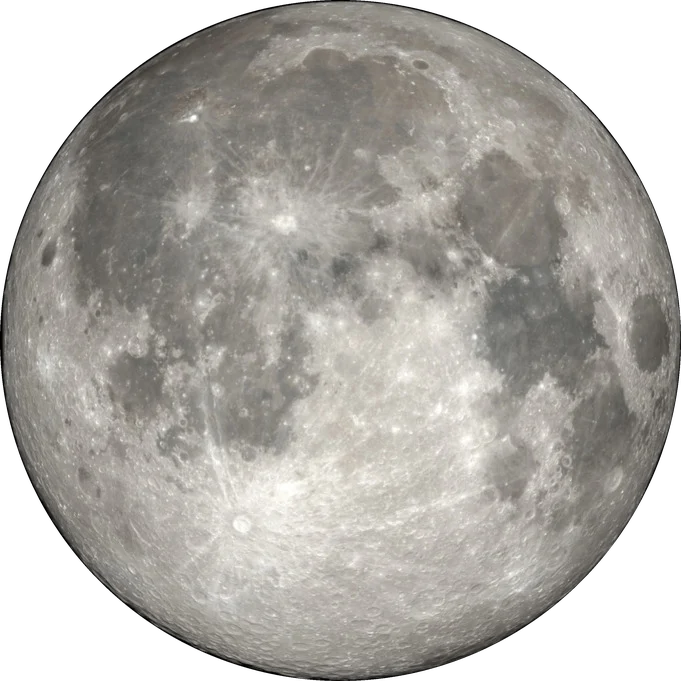
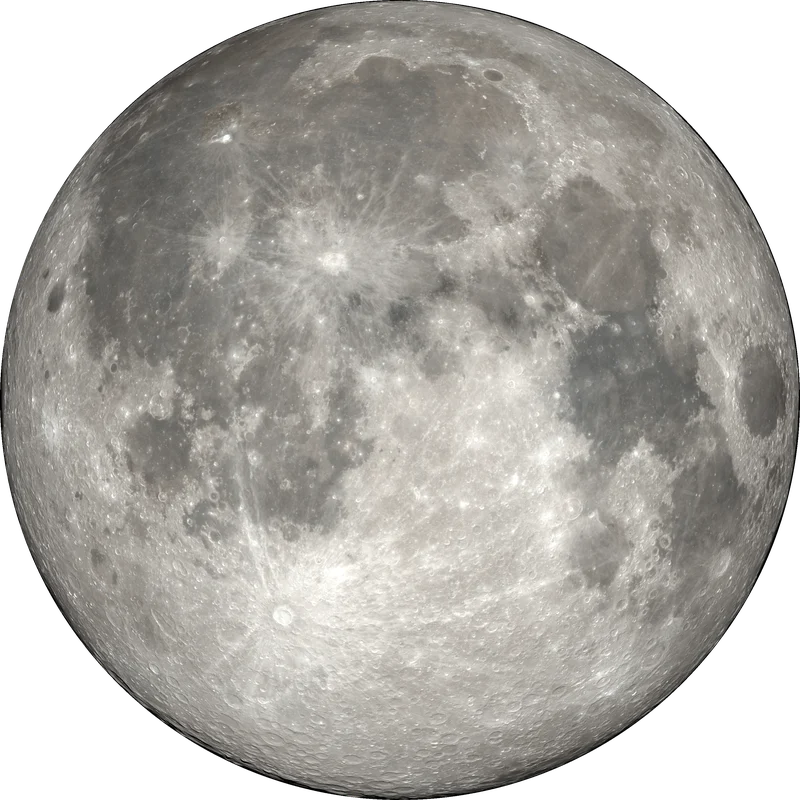
NASA tarzı iki katlı menü ve sinematik ana sayfa girişi
- Üst kat: logo, canlı ay göstergesi, dil; alt kat: ortalı bölüm menüsü
  (çok sayfalı bölümler açılır menü olur), telefonda bölümlü açılır menü
- Ana sayfa: ekranı kaplayan dev ay yayı (o anki evre gölgesiyle) ve büyük başlık
- NASA SVS 5760px karesinden 160/800/2000 px ay görselleri

diff --git a/apps/web/components/HeaderNav.tsx b/apps/web/components/HeaderNav.tsx
@@ -10,29 +10,69 @@ export interface NavItem {
   description: string;
 }
 
+/** Menüdeki bir bölüm. Tek sayfası olan bölüm doğrudan bağlantı, birden çok sayfası olan açılır menü olur. */
+export interface NavSection {
+  label: string;
+  items: NavItem[];
+}
+
 function isActive(pathname: string, path: string) {
   return pathname === path || pathname.startsWith(`${path}/`);
 }
 
-/** Masaüstü menü bağlantıları; bulunulan sayfa altı çizili gösterilir. */
-export function DesktopNav({ items }: { items: NavItem[] }) {
+const linkBase = "flex h-12 items-center gap-1 border-b-2 px-3 text-[0.9375rem] font-semibold transition";
+const linkState = (active: boolean) =>
+  active ? "border-indigo-400 text-white" : "border-transparent text-zinc-300 hover:text-white";
+
+/** Masaüstü bölüm menüsü (ikinci kat). Bulunulan bölümün altı çizilir. */
+export function DesktopNav({ sections }: { sections: NavSection[] }) {
   const pathname = usePathname();
+
   return (
-    <nav aria-label="Ana menü" className="hidden md:block">
-      <ul className="flex items-center gap-1 text-sm">
-        {items.map((item) => {
-          const active = isActive(pathname, item.path);
+    <nav aria-label="Bölümler" className="hidden md:block">
+      <ul className="flex items-center justify-center gap-2">
+        {sections.map((section) => {
+          const active = section.items.some((i) => isActive(pathname, i.path));
+          if (section.items.length === 1) {
+            const item = section.items[0];
+            return (
+              <li key={section.label}>
+                <Link
+                  href={item.path}
+                  aria-current={active ? "page" : undefined}
+                  className={`${linkBase} ${linkState(active)}`}
+                >
+                  {item.label}
+                </Link>
+              </li>
+            );
+          }
           return (
-            <li key={item.path}>
-              <Link
-                href={item.path}
-                aria-current={active ? "page" : undefined}
-                className={`relative rounded-full px-3.5 py-2 transition ${
-                  active ? "bg-white/10 text-white" : "text-zinc-300 hover:bg-white/5 hover:text-white"
-                }`}
-              >
-                {item.label}
-              </Link>
+            <li key={section.label} className="group relative">
+              <button type="button" aria-haspopup="true" className={`${linkBase} ${linkState(active)}`}>
+                {section.label}
+                <svg
+                  viewBox="0 0 12 12"
+                  width="11"
+                  height="11"
+                  aria-hidden="true"
+                  className="transition group-focus-within:rotate-180 group-hover:rotate-180"
+                >
+                  <path d="M2 4l4 4 4-4" fill="none" stroke="currentColor" strokeWidth="1.6" />
+                </svg>
+              </button>
+              <div className="invisible absolute left-1/2 top-full z-30 w-80 -translate-x-1/2 pt-1 opacity-0 transition group-focus-within:visible group-focus-within:opacity-100 group-hover:visible group-hover:opacity-100">
+                <ul className="rounded-2xl border border-white/10 bg-[#0d111c] p-2 shadow-2xl">
+                  {section.items.map((item) => (
+                    <li key={item.path}>
+                      <Link href={item.path} className="block rounded-xl px-4 py-3 hover:bg-white/5">
+                        <span className="block font-medium text-white">{item.label}</span>
+                        <span className="mt-0.5 block text-sm text-zinc-400">{item.description}</span>
+                      </Link>
+                    </li>
+                  ))}
+                </ul>
+              </div>
             </li>
           );
         })}
@@ -42,7 +82,7 @@ export function DesktopNav({ items }: { items: NavItem[] }) {
 }
 
 /** Telefon menüsü: ☰ ile açılır, sayfa değişince kendiliğinden kapanır. */
-export function MobileNav({ items }: { items: NavItem[] }) {
+export function MobileNav({ sections }: { sections: NavSection[] }) {
   const pathname = usePathname();
   const [open, setOpen] = useState(false);
   const [lastPath, setLastPath] = useState(pathname);
@@ -86,25 +126,34 @@ export function MobileNav({ items }: { items: NavItem[] }) {
         <nav
           id="mobil-menu"
           aria-label="Ana menü"
-          className="absolute inset-x-0 top-full border-b border-white/10 bg-[#05070d]/95 backdrop-blur-md"
+          className="absolute inset-x-0 top-full max-h-[80vh] overflow-y-auto border-b border-white/10 bg-[#05070d]"
         >
-          <ul className="mx-auto max-w-5xl px-4 py-3">
-            {items.map((item) => {
-              const active = isActive(pathname, item.path);
-              return (
-                <li key={item.path}>
-                  <Link
-                    href={item.path}
-                    aria-current={active ? "page" : undefined}
-                    className={`block rounded-xl px-4 py-3 ${active ? "bg-white/10" : "hover:bg-white/5"}`}
-                  >
-                    <span className="block font-medium text-white">{item.label}</span>
-                    <span className="mt-0.5 block text-sm text-zinc-400">{item.description}</span>
-                  </Link>
-                </li>
-              );
-            })}
-          </ul>
+          <div className="mx-auto max-w-5xl px-4 py-3">
+            {sections.map((section) => (
+              <div key={section.label} className="py-2">
+                <p className="px-4 pb-1 text-xs font-semibold uppercase tracking-wider text-zinc-500">
+                  {section.label}
+                </p>
+                <ul>
+                  {section.items.map((item) => {
+                    const active = isActive(pathname, item.path);
+                    return (
+                      <li key={item.path}>
+                        <Link
+                          href={item.path}
+                          aria-current={active ? "page" : undefined}
+                          className={`block rounded-xl px-4 py-3 ${active ? "bg-white/10" : "hover:bg-white/5"}`}
+                        >
+                          <span className="block font-medium text-white">{item.label}</span>
+                          <span className="mt-0.5 block text-sm text-zinc-400">{item.description}</span>
+                        </Link>
+                      </li>
+                    );
+                  })}
+                </ul>
+              </div>
+            ))}
+          </div>
         </nav>
       )}
     </div>

diff --git a/apps/web/app/tr/page.tsx b/apps/web/app/tr/page.tsx
@@ -61,52 +61,51 @@ async function Hero() {
   const date = new Intl.DateTimeFormat(siteConfig.locale, { timeZone, day: "numeric", month: "long", weekday: "long" });
 
   return (
-    <section className="starfield relative overflow-hidden bg-[#05070d] text-white">
-      <div className="mx-auto grid w-full max-w-5xl items-center gap-10 px-4 py-12 md:grid-cols-[1fr_auto] md:py-20">
-        <div className="order-2 md:order-1">
-          <p className="text-sm font-medium uppercase tracking-[0.2em] text-indigo-300">Ay rehberi</p>
-          <h1 className="mt-4 max-w-xl text-4xl font-semibold leading-[1.1] tracking-tight sm:text-6xl">
-            Gökyüzündeki ay, bugün ve her gün
-          </h1>
-          <p className="mt-5 max-w-lg text-lg text-zinc-300">
-            Ayın evresi, doğuş ve batış saatleri, dolunay tarihleri. Hepsi Türkiye saatine göre, astronomik hesaplarla.
-          </p>
+    <section className="starfield relative flex min-h-[640px] flex-col justify-end overflow-hidden bg-[#05070d] text-white md:min-h-[min(88vh,860px)]">
+      {/* Dev ay: yalnızca üst yayı görünür, evre gölgesi o anki evreye göre. */}
+      <div
+        aria-hidden="true"
+        className="pointer-events-none absolute left-1/2 top-[34%] w-[max(900px,125vw)] -translate-x-1/2 md:top-[24%] md:w-[min(125vw,1900px)]"
+      >
+        <MoonPhaseIcon phaseAngle={phase.phaseAngle} size={1600} title="" />
+      </div>
+      <div
+        aria-hidden="true"
+        className="pointer-events-none absolute inset-x-0 bottom-0 h-[58%] bg-gradient-to-t from-[#05070d] via-[#05070d]/70 to-transparent"
+      />
 
-          <Link
-            href={PAGES.bugunAy.path}
-            className="group mt-8 flex max-w-md items-center gap-4 rounded-2xl border border-white/15 bg-white/[0.06] p-4 transition hover:border-white/30 hover:bg-white/10"
+      <div className="relative mx-auto w-full max-w-5xl px-4 pb-14 md:pb-20">
+        <p className="text-sm font-semibold uppercase tracking-[0.25em] text-indigo-300">Ay rehberi</p>
+        <h1 className="mt-4 max-w-4xl text-5xl font-bold leading-[1.02] tracking-tight sm:text-7xl md:text-[5.25rem]">
+          Gökyüzündeki ay, bugün ve her gün
+        </h1>
+        <p className="mt-6 max-w-xl text-lg text-zinc-200 md:text-xl">
+          Ayın evresi, doğuş ve batış saatleri, dolunay tarihleri. Hepsi Türkiye saatine göre, astronomik hesaplarla.
+        </p>
+
+        <Link
+          href={PAGES.bugunAy.path}
+          className="group mt-8 flex max-w-md items-center gap-4 rounded-2xl border border-white/15 bg-black/40 p-4 backdrop-blur-sm transition hover:border-white/30 hover:bg-black/55"
+        >
+          <span className="shrink-0">
+            <MoonPhaseIcon phaseAngle={phase.phaseAngle} size={56} title={phase.name} />
+          </span>
+          <span className="min-w-0 flex-1">
+            <span className="block text-xs uppercase tracking-wider text-zinc-400">
+              Bu gece · <time dateTime={now.toISOString()}>{date.format(now)}</time>
+            </span>
+            <span className="mt-0.5 block text-lg font-semibold">
+              {phase.name} <span className="font-light text-zinc-300">· %{illumination}</span>
+            </span>
+            <span className="text-sm text-indigo-300">Bugünün ayrıntıları</span>
+          </span>
+          <span
+            aria-hidden="true"
+            className="text-xl text-zinc-400 transition group-hover:translate-x-1 group-hover:text-white"
           >
-            <span className="shrink-0">
-              <MoonPhaseIcon phaseAngle={phase.phaseAngle} size={56} title={phase.name} />
-            </span>
-            <span className="min-w-0 flex-1">
-              <span className="block text-xs uppercase tracking-wider text-zinc-400">
-                <time dateTime={now.toISOString()}>{date.format(now)}</time>
-              </span>
-              <span className="mt-0.5 block text-lg font-semibold">
-                {phase.name} <span className="font-light text-zinc-300">· %{illumination}</span>
-              </span>
-              <span className="text-sm text-indigo-300">Bugünün ayrıntıları</span>
-            </span>
-            <span
-              aria-hidden="true"
-              className="text-xl text-zinc-400 transition group-hover:translate-x-1 group-hover:text-white"
-            >
-              →
-            </span>
-          </Link>
-        </div>
-
-        <div className="order-1 flex justify-center md:order-2">
-          <div className="w-[min(70vw,400px)]">
-            <MoonPhaseIcon
-              phaseAngle={phase.phaseAngle}
-              size={400}
-              glow
-              title={`Ayın şu anki görünümü: ${phase.name}`}
-            />
-          </div>
-        </div>
+            →
+          </span>
+        </Link>
       </div>
     </section>
   );

diff --git a/apps/web/components/SiteHeader.tsx b/apps/web/components/SiteHeader.tsx
@@ -1,34 +1,42 @@
 import { cacheLife } from "next/cache";
 import Link from "next/link";
 import { getMoonPhase } from "@moon-app/moon";
-import { ALL_PAGES, HOME_PATH, PAGES } from "@/lib/pages";
+import { HOME_PATH, pagesByGroup, PAGES } from "@/lib/pages";
 import { siteConfig } from "@/site.config";
-import { DesktopNav, MobileNav, type NavItem } from "./HeaderNav";
+import { DesktopNav, MobileNav, type NavSection } from "./HeaderNav";
 import { LanguageSwitcher } from "./LanguageSwitcher";
 import { MoonPhaseIcon } from "./MoonPhaseIcon";
 
+/**
+ * İki katlı üst menü. Üst kat: logo, canlı ay göstergesi, dil. Alt kat: bölümler.
+ * Bölümler `lib/pages.ts` gruplarından gelir; boş bölüm gösterilmez.
+ */
 export function SiteHeader() {
-  const items: NavItem[] = ALL_PAGES.filter((p) => p.inHeader).map((p) => ({
-    path: p.path,
-    label: p.navLabel,
-    description: p.description,
-  }));
+  const sections: NavSection[] = pagesByGroup()
+    .filter((g) => g.group !== "kurumsal")
+    .map((g) => ({
+      label: g.name,
+      items: g.pages.map((p) => ({ path: p.path, label: p.navLabel, description: p.description })),
+    }));
 
   return (
-    <header className="sticky top-0 z-50 border-b border-white/10 bg-[#05070d] text-white">
-      <div className="relative mx-auto flex h-16 w-full max-w-5xl items-center gap-4 px-4">
-        <Link href={HOME_PATH} className="flex items-center gap-2.5" aria-label={`${siteConfig.name} ana sayfa`}>
-          <MoonPhaseIcon phaseAngle={140} size={30} title="" />
-          <span className="text-[1.0625rem] font-semibold tracking-tight">{siteConfig.name}</span>
-        </Link>
-
-        <div className="ml-auto flex items-center gap-2 md:ml-6 md:flex-1">
-          <DesktopNav items={items} />
-          <div className="flex items-center gap-2 md:ml-auto">
+    <header className="sticky top-0 z-50 bg-[#05070d] text-white">
+      <div className="relative border-b border-white/10">
+        <div className="mx-auto flex h-16 w-full max-w-5xl items-center gap-3 px-4">
+          <Link href={HOME_PATH} className="flex items-center gap-2.5" aria-label={`${siteConfig.name} ana sayfa`}>
+            <MoonPhaseIcon phaseAngle={140} size={32} title="" />
+            <span className="text-lg font-bold tracking-tight">{siteConfig.name}</span>
+          </Link>
+          <div className="ml-auto flex items-center gap-2">
             <MoonNow />
             <LanguageSwitcher />
-            <MobileNav items={items} />
+            <MobileNav sections={sections} />
           </div>
+        </div>
+      </div>
+      <div className="hidden border-b border-white/10 bg-[#0a0d16] md:block">
+        <div className="mx-auto w-full max-w-5xl px-4">
+          <DesktopNav sections={sections} />
         </div>
       </div>
     </header>
@@ -50,7 +58,7 @@ async function MoonNow() {
       title={`Şu an: ${phase.name}, yüzde ${illumination} aydınlık`}
     >
       <MoonPhaseIcon phaseAngle={phase.phaseAngle} size={24} title={phase.name} />
-      <span className="tabular-nums">%{illumination}</span>
+      <span className="font-medium tabular-nums">%{illumination}</span>
       <span className="hidden text-zinc-400 lg:inline">{phase.name}</span>
     </Link>
   );

diff --git a/apps/web/components/MoonPhaseIcon.tsx b/apps/web/components/MoonPhaseIcon.tsx
@@ -36,9 +36,10 @@ export function MoonPhaseIcon({ phaseAngle, size = 200, southern = false, title,
   ].join(" ");
 
   // Aynı sayfada aynı evre birden çok kez çizilse bile tanımlar aynı olduğu için çakışma sorun yaratmaz.
-  const id = `moon-${Math.round(phaseAngle * 10)}-${size <= 80 ? "s" : "l"}`;
-  const src = size <= 80 ? "/moon/full-moon-160.webp" : "/moon/full-moon.webp";
-  const blur = size <= 80 ? 0.6 : 1.1;
+  const id = `moon-${Math.round(phaseAngle * 10)}-${size <= 80 ? "s" : size <= 500 ? "m" : "l"}`;
+  const src =
+    size <= 80 ? "/moon/full-moon-160.webp" : size <= 500 ? "/moon/full-moon.webp" : "/moon/full-moon-2000.webp";
+  const blur = size <= 80 ? 0.6 : size <= 500 ? 1.1 : 0.8;
   const pad = glow ? 12 : 0;
 
   return (

diff --git a/CLAUDE.md b/CLAUDE.md
@@ -90,7 +90,8 @@ Kullanıcının önceki sitesi "şablonik içerik" nedeniyle AdSense'ten **4 kez
 
 **Uygulanan görsel dil:**
 - Koyu, tam genişlik giriş alanı (`bg-[#05070d]` + `.starfield`), üst menü ve alt bilgi de aynı koyu ton. İçerik alanı açık renkli, `max-w-3xl`.
-- **Gerçek ay fotoğrafı:** `public/moon/full-moon.webp` (NASA SVS "Moon Phase and Libration, 2026", kare 7157, 730px, kamu malı; künye: "NASA Scientific Visualization Studio"). Evre gölgesi `MoonPhaseIcon` içinde hesaplanıp yumuşatılarak bindirilir. Küçük boylar için `full-moon-160.webp`.
+- **Gerçek ay fotoğrafı:** NASA SVS "Moon Phase and Libration, 2026" (svs.gsfc.nasa.gov/5587), 5760px "plain" kare 7157 (26 Ekim 2026 dolunayı), kamu malı; künye: "NASA Scientific Visualization Studio". `public/moon/` altında 160 / 800 / 2000 px WebP. `MoonPhaseIcon` gösterim boyutuna göre dosyayı seçer, evre gölgesini hesaplayıp yumuşatarak bindirir.
+- **Referans:** Kullanıcı NASA'nın science.nasa.gov/moon sayfasını örnek gösterdi: iki katlı menü (üstte logo/araçlar, altta ortalı kalın bölüm menüsü), ekranı kaplayan sinematik ay görseli üzerinde dev başlık. Ana sayfa girişi bu tarzda (dev ay yayı + başlık).
 - İri, ince rakamlar (`font-extralight`, `tabular-nums`), bölüm başlıklarının üstünde küçük büyük harfli etiketler, `rounded-2xl` gölgeli kartlar, vurgu rengi indigo.
 - 7 günlük evre şeridi, geri sayım çipleri gibi zengin bilgi kutuları.
 
